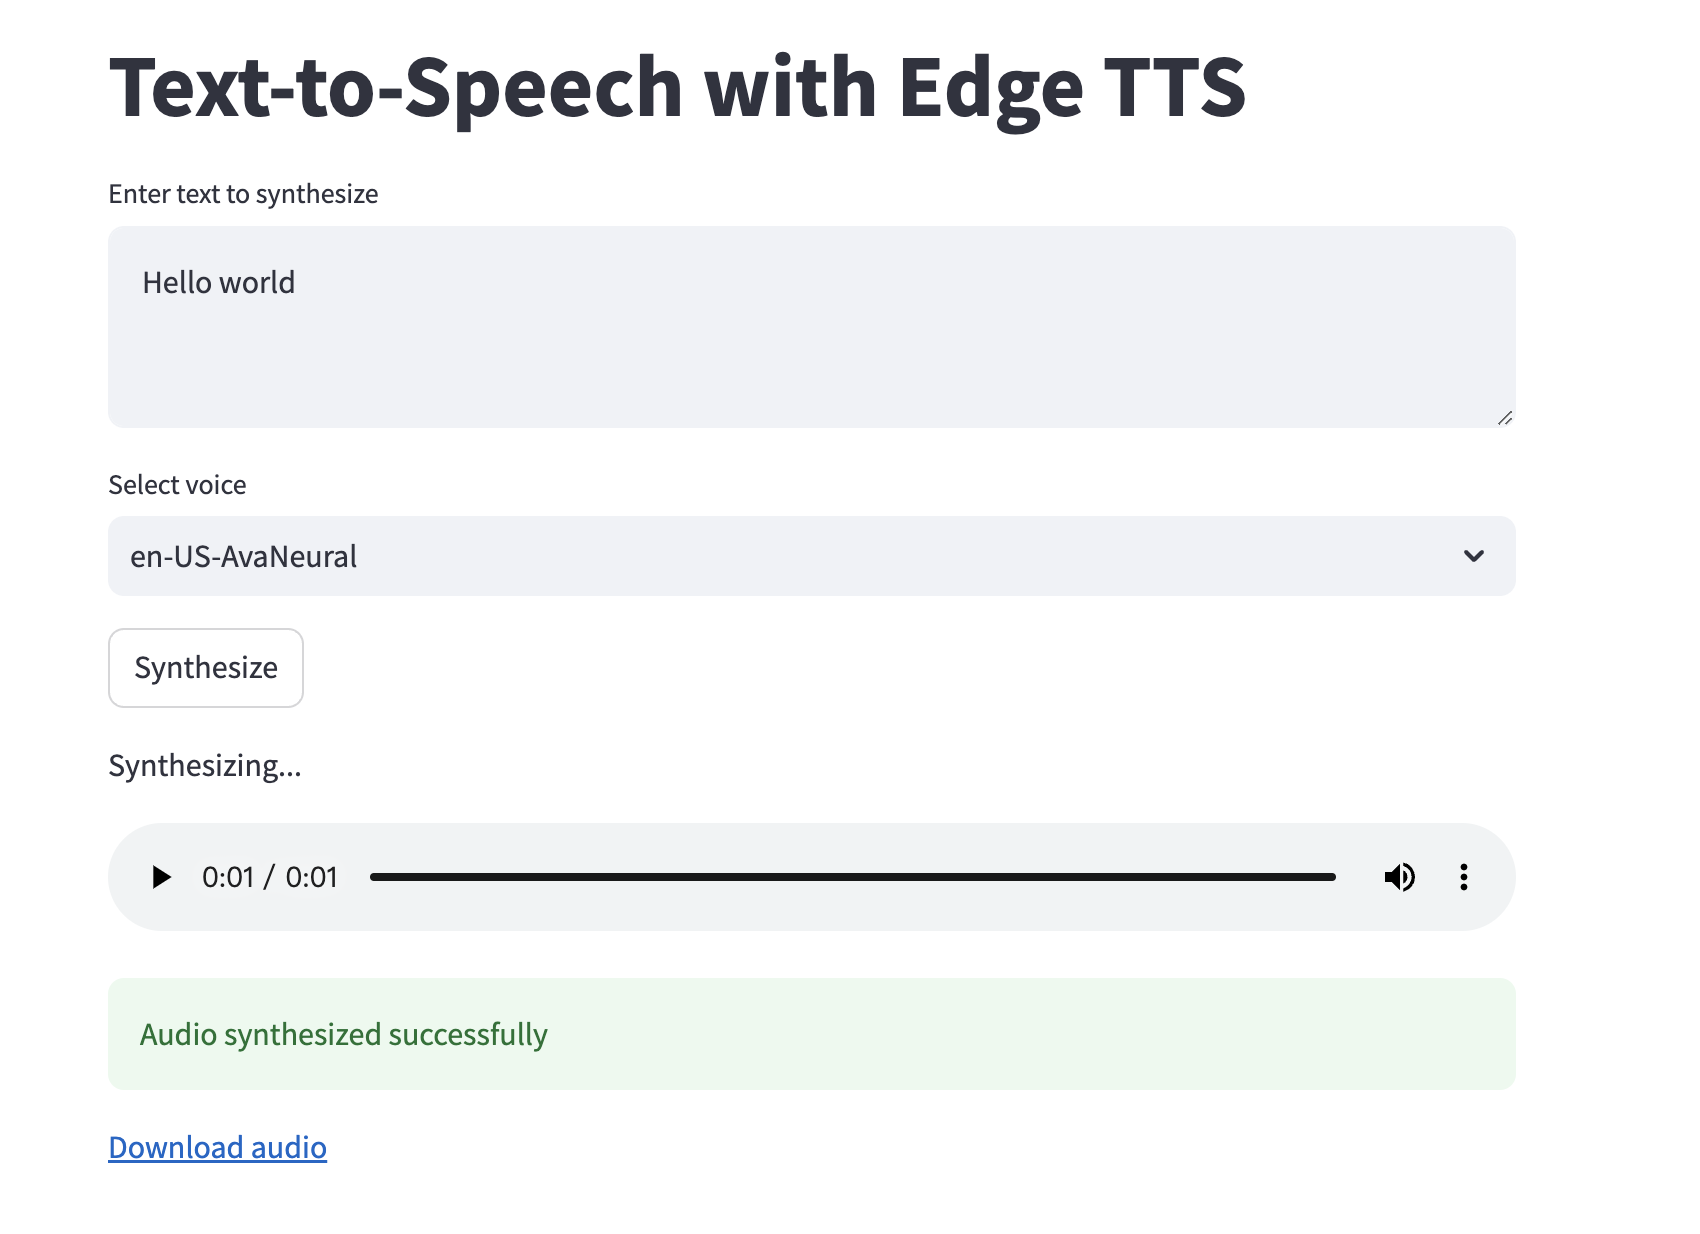
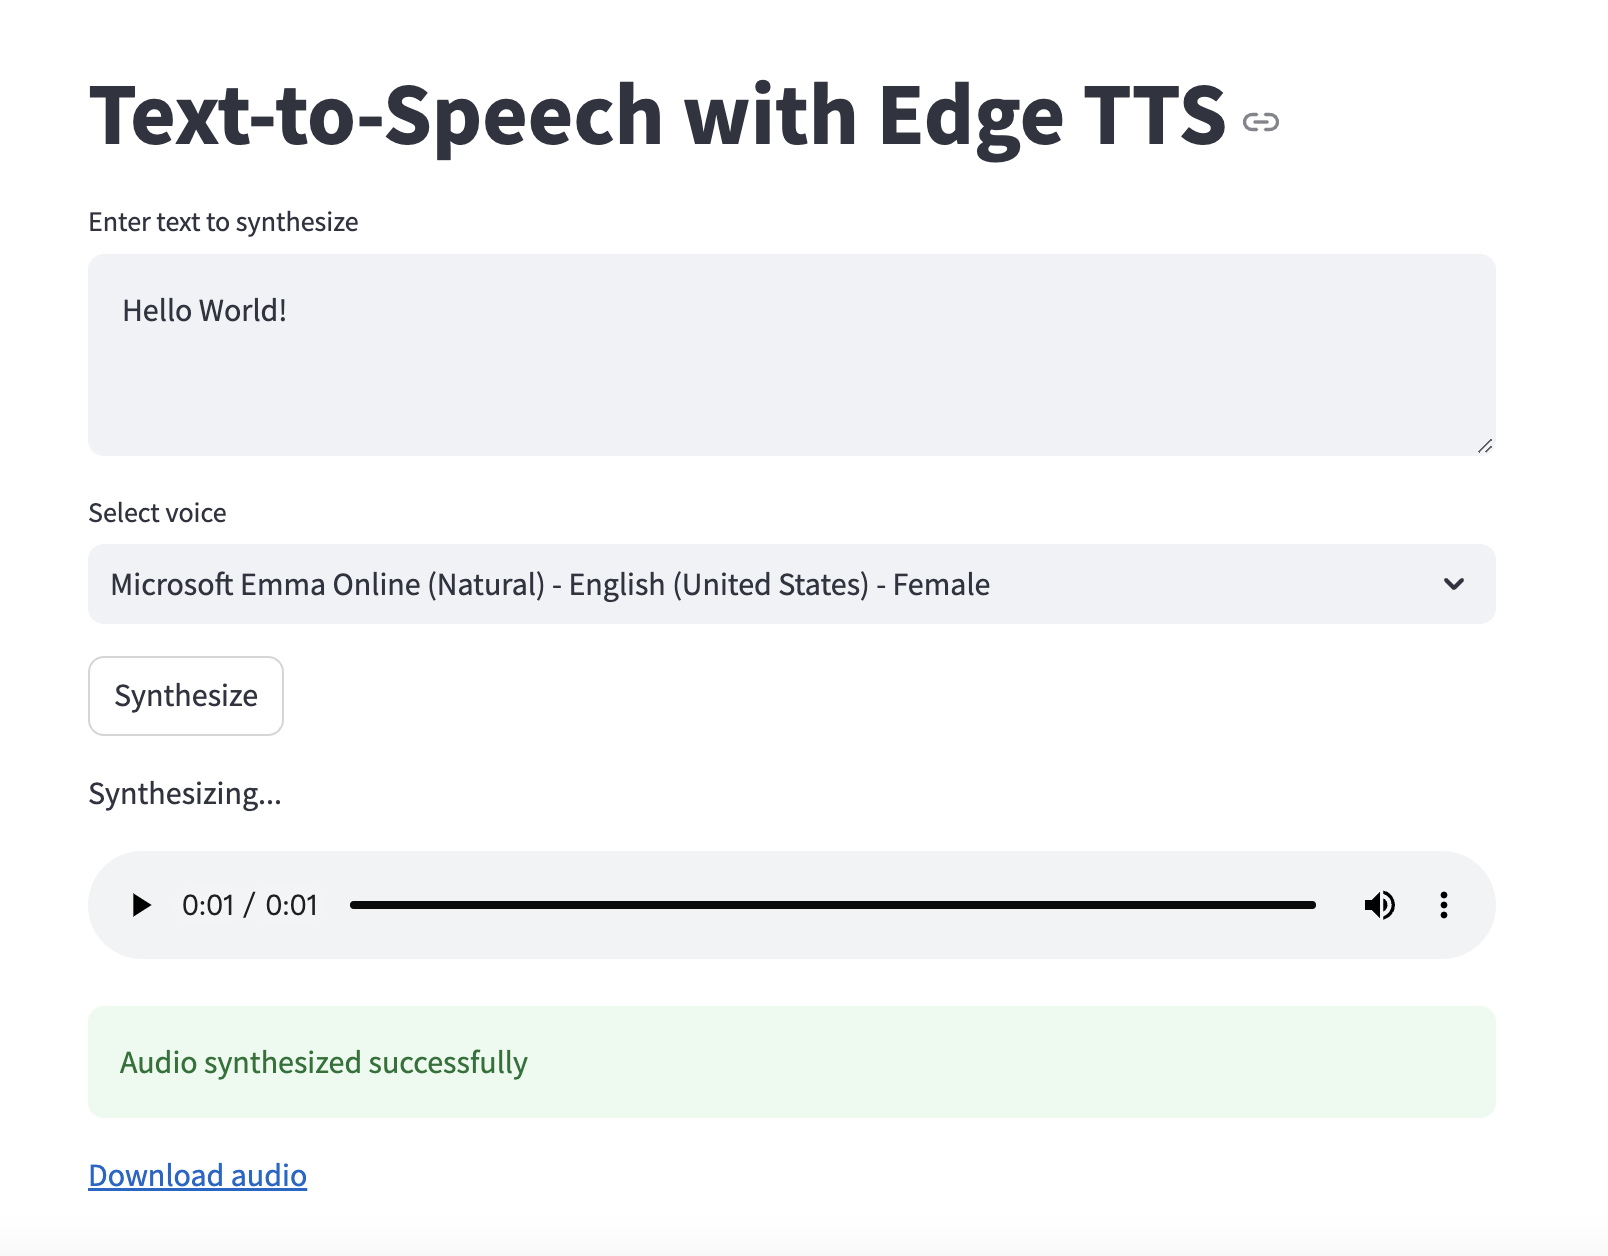
display friendly name

diff --git a/ui.py b/ui.py
@@ -20,14 +20,14 @@ def run_ui():
 
     voices = asyncio.run(edge_tts.list_voices())
 
-    voice_options = [voice['ShortName'] for voice in voices]
-    voice = st.selectbox("Select voice", voice_options)
+    voice_options = {f"{voice['FriendlyName']} - {voice['Gender']}": voice['ShortName'] for voice in voices}
+    voice = st.selectbox("Select voice", voice_options.keys())
 
     if st.button("Synthesize"):
         if text and voice:
             st.write("Synthesizing...")
             try:
-                audio_file = asyncio.run(synthesize_text(text, voice))
+                audio_file = asyncio.run(synthesize_text(text, voice_options[voice]))
                 st.audio(audio_file, format='audio/mp3')
                 st.success("Audio synthesized successfully")
 
